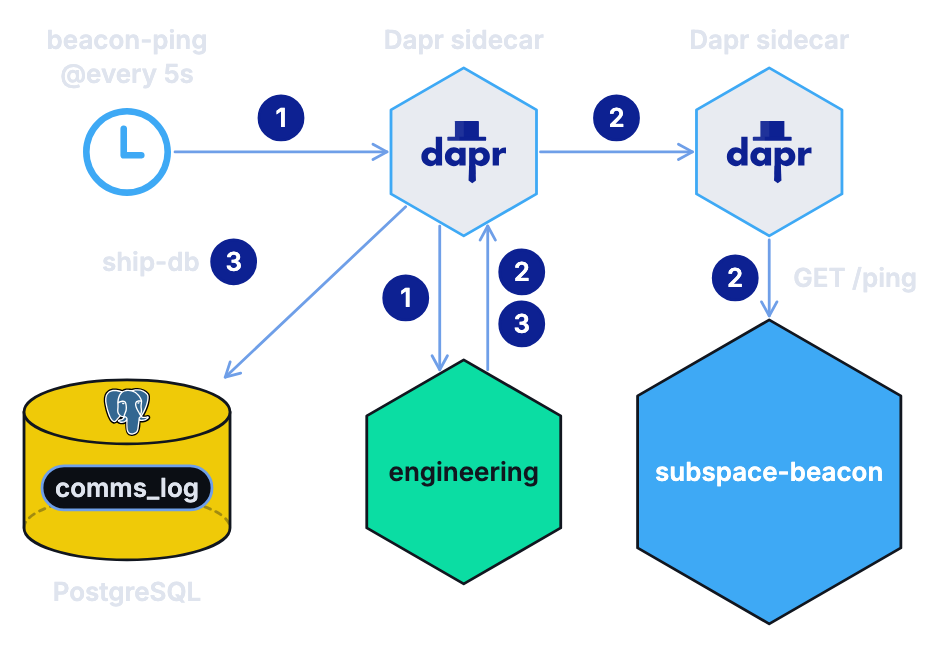
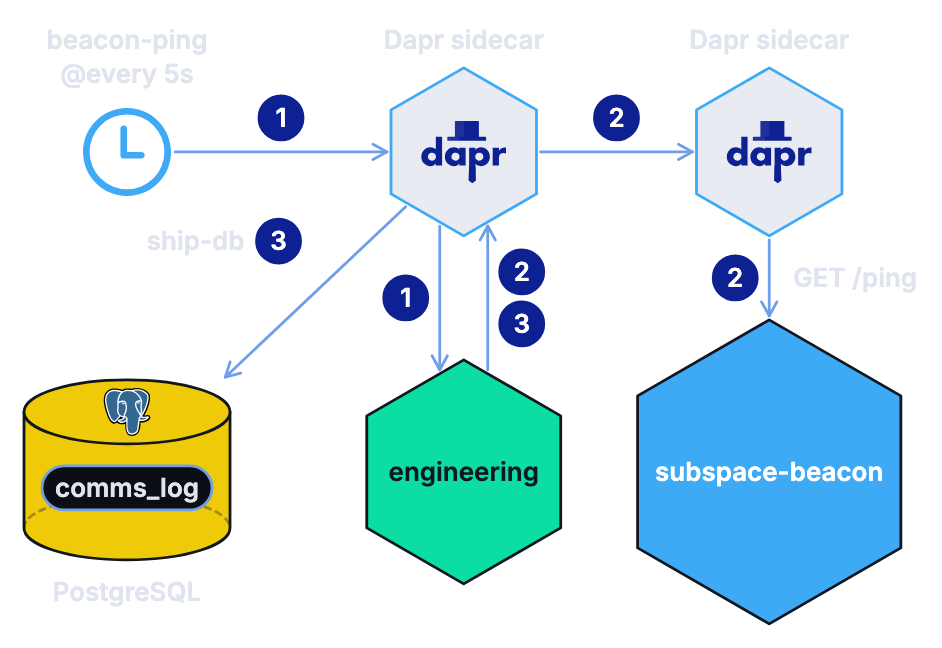
Bindings page 4: ship-db label closer to its arrow, step numbers in the text

Changed region(s): [[0.0924, 0.3395, 0.3386, 0.463]]

diff --git a/dapr-bindings/4-subspace-beacon/assignment.md b/dapr-bindings/4-subspace-beacon/assignment.md
@@ -57,7 +57,7 @@ Open `PingController.java` in the `java/demo4-subspace-beacon/engineering/src/ma
 
 </details>
 
-Each tick runs three steps: an **input binding** triggers the handler, **service invocation** reaches the beacon by its app ID, and an **output binding** stores the answer. The code holds no host or port for the beacon and no connection to the database. Both sidecars find what they need from the app ID and the component names.
+Each tick runs three steps, numbered the same in the diagram below: (1) an **input binding** triggers the handler, (2) **service invocation** reaches the beacon by its app ID, and (3) an **output binding** stores the answer. The code holds no host or port for the beacon and no connection to the database. Both sidecars find what they need from the app ID and the component names.
 
 ![On each tick the beacon-ping cron binding triggers engineering, which calls subspace-beacon through service invocation and stores the answer in comms_log through the ship-db binding.](https://github.com/diagrid-labs/dapr-university-instruqt/blob/dev-906-bindings-diagrams/dapr-bindings/4-subspace-beacon/images/subspace-beacon.png?raw=true)
 
